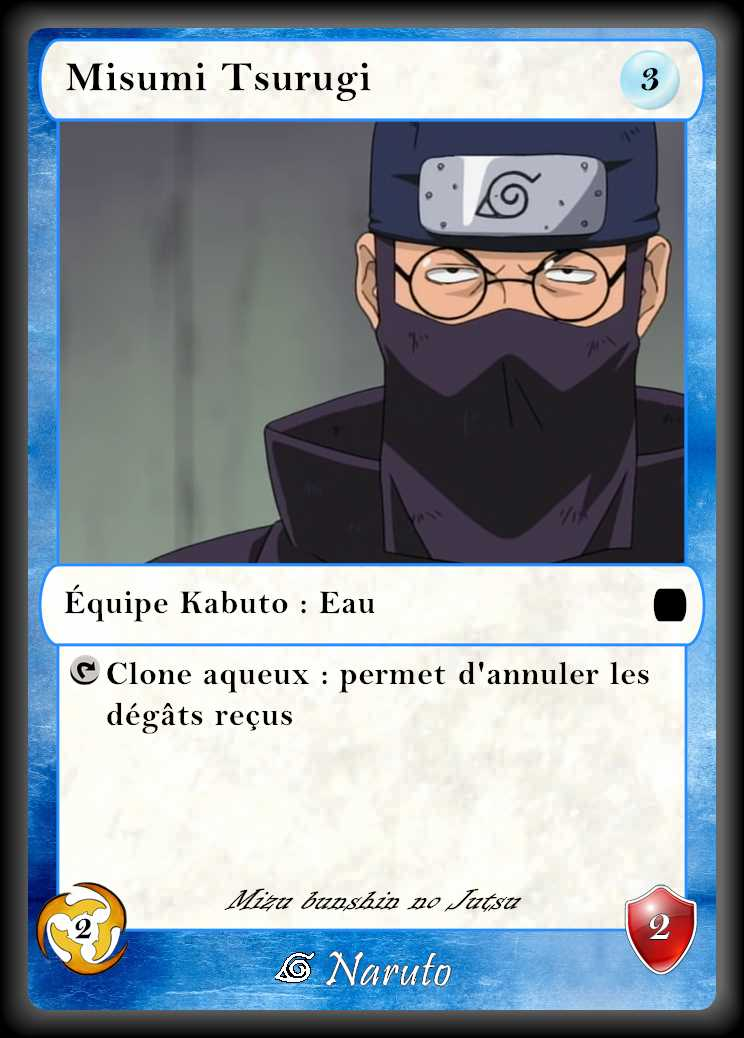
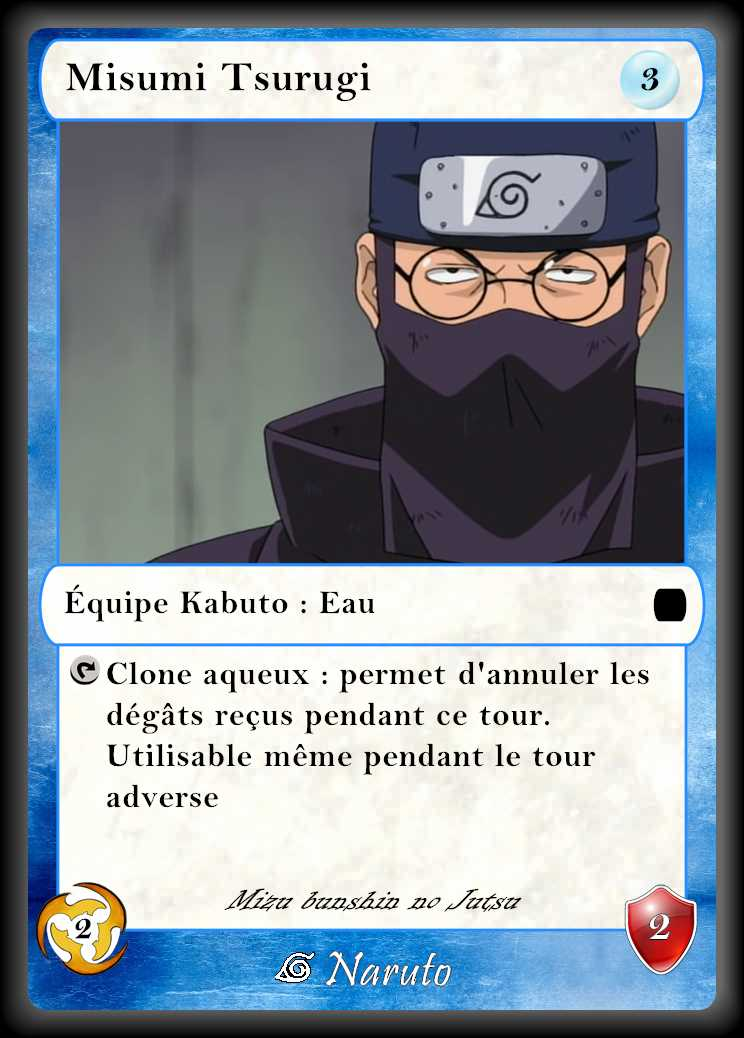
MAJ des cartes OK

Changed region(s): [[0.1237, 0.6782, 0.8038, 0.8015]]

diff --git a/src/main/resources/static/js/deckSection.js b/src/main/resources/static/js/deckSection.js
@@ -105,24 +105,27 @@ function fillDeck(playerId,section,stackName,gameImageHeight){
             var div = document.createElement("div-"+ cards[i].id);
 
                       //Manage dmg points
-            var xhttpDmg = new XMLHttpRequest();
-            xhttpDmg.open("GET", "player/"+playerId+"/board/"+cards[i].id+"/dmg", false);
-            xhttpDmg.setRequestHeader("Content-type", "application/json");
-            xhttpDmg.send();
 
             var buttonLessDmg = document.createElement("button");
             buttonLessDmg.innerHTML = "-";
-            buttonLessDmg.tag = parseInt(xhttpDmg.responseText)-1;
+            buttonLessDmg.tag = parseInt(cards[i].dammagePoints)-1;
             buttonLessDmg.setAttribute("id",cards[i].id);
             buttonLessDmg.setAttribute('onclick','updateDmgPoints(this.id,this.tag);');
             div.appendChild(buttonLessDmg);
 
-            var nbDmg = document.createTextNode("  " + xhttpDmg.responseText+"  ");
-            div.appendChild(nbDmg);
+            var bold = document.createElement("b");
+            var nbDmg = document.createTextNode("  " + cards[i].dammagePoints+"  ");
+            bold.style.fontSize = "medium";
+            if (cards[i].dammagePoints>0){
+                bold.style.color = 'red';
+            }
+
+            bold.appendChild(nbDmg);
+            div.appendChild(bold);
 
             var buttonMoreDmg = document.createElement("button");
             buttonMoreDmg.innerHTML = "+";
-            buttonMoreDmg.tag = parseInt(xhttpDmg.responseText)+1;
+            buttonMoreDmg.tag = parseInt(cards[i].dammagePoints)+1;
             buttonMoreDmg.setAttribute("id",cards[i].id);
             buttonMoreDmg.setAttribute('onclick','updateDmgPoints(this.id,this.tag);');
             div.appendChild(buttonMoreDmg);

diff --git a/src/main/resources/static/js/pv.js b/src/main/resources/static/js/pv.js
@@ -25,9 +25,27 @@ function fillPVs(playerId,componentId) {
         xhttpChakras.open("GET", "player/"+playerId+"/chakra", false);
         xhttpChakras.setRequestHeader("Content-type", "application/json");
         xhttpChakras.send();
-        var componentChakra = document.createTextNode("Chakras : " + xhttpChakras.responseText);
 
-        component.appendChild(componentChakra);
+
+
+        var xhttpMaxChakra = new XMLHttpRequest();
+        xhttpMaxChakra.open("GET", "maxchakra", false);
+        xhttpMaxChakra.setRequestHeader("Content-type", "application/json");
+        xhttpMaxChakra.send();
+        var maxChakra = xhttpMaxChakra.responseText
+
+
+        var component = document.getElementById(componentId);
+        var capsule = document.createElement("span");
+        var componentChakra = document.createTextNode("Chakras : " + xhttpChakras.responseText);
+        if (Number(xhttpChakras.responseText)> Number(maxChakra)) {
+            capsule.style.color="red";
+        }else{
+            capsule.style.color="black";
+        }
+        capsule.appendChild(componentChakra);
+
+        component.appendChild(capsule);
     }
 }
 

diff --git a/src/main/resources/static/js/chakra.js b/src/main/resources/static/js/chakra.js
@@ -4,8 +4,21 @@ function fillChakras(playerId,componentId) {
     xhttp.open("GET", "player/"+playerId+"/chakra", false);
     xhttp.setRequestHeader("Content-type", "application/json");
     xhttp.send();
+
+    var xhttpMaxChakra = new XMLHttpRequest();
+    xhttpMaxChakra.open("GET", "maxchakra", false);
+    xhttpMaxChakra.setRequestHeader("Content-type", "application/json");
+    xhttpMaxChakra.send();
+    var maxChakra = xhttpMaxChakra.responseText
+
+
     var component = document.getElementById(componentId);
-    component.textContent =  "Chakras : " + xhttp.responseText;
+    component.textContent = "Chakras : " + xhttp.responseText;
+    if (Number(xhttp.responseText)> Number(maxChakra)) {
+        component.style.color="red";
+    }else{
+        component.style.color="black";
+    }
     var linebreak = document.createElement("br");
     component.appendChild(linebreak);
 

diff --git a/src/main/resources/static/js/opponentDeckSection.js b/src/main/resources/static/js/opponentDeckSection.js
@@ -102,10 +102,15 @@ function fillDeckOpp(playerId,section,stackName,gameImageHeight){
 
             //Je crée un sous-bloc pour l'affichage des dégats
             var div = document.createElement("div");
+            var bold = document.createElement("b");
             var nbDmg = document.createTextNode("  " + cards[i].dammagePoints + "  ");
-
+            bold.appendChild(nbDmg);
+            bold.style.fontSize = "medium";
+            if (cards[i].dammagePoints>0){
+                bold.style.color = 'red';
+            }
             //Ajout bloc dmg au div
-            div.appendChild(nbDmg);
+            div.appendChild(bold);
             cardDiv.appendChild(div);
 
             src.appendChild(cardDiv);

diff --git a/src/main/java/cardmastergame/controller/GameController.java b/src/main/java/cardmastergame/controller/GameController.java
@@ -34,6 +34,21 @@ public class GameController extends AbstractController{
     }
 
     @CrossOrigin
+    @RequestMapping(path="/maxchakra",method = RequestMethod.GET)
+    @ResponseBody
+    @ApiOperation(value = "Get the max value of chakra")
+    @ApiResponses(value = {
+            @ApiResponse(code = 200, message = "Success", response = Integer.class),
+            @ApiResponse(code = 401, message = "401"),
+            @ApiResponse(code = 403, message = "403"),
+            @ApiResponse(code = 404, message = "404"),
+            @ApiResponse(code = 500, message = "500")})
+    public int getMaxChakra() {
+
+        return customRepo.getMaxChakra();
+    }
+
+    @CrossOrigin
     @RequestMapping(path="/stack/{value}",method = RequestMethod.GET)
     @ResponseBody
     @ApiOperation(value = "Get a given stack")

diff --git a/src/main/java/cardmastergame/bean/Game.java b/src/main/java/cardmastergame/bean/Game.java
@@ -153,9 +153,8 @@ public class Game {
     }
 
     public int updateChakras(int playerId, int value) {
-        if(value<= MAX_CHAKRA) {
-            chakras[playerId] = value;
-        }
+
+        chakras[playerId] = value;
         return  chakras[playerId];
     }
 
@@ -222,4 +221,7 @@ public class Game {
         return pieges;
     }
 
+    public int getMaxChakra() {
+        return MAX_CHAKRA;
+    }
 }

diff --git a/src/main/java/cardmastergame/repository/CollectionRepositoryImpl.java b/src/main/java/cardmastergame/repository/CollectionRepositoryImpl.java
@@ -149,5 +149,10 @@ public class CollectionRepositoryImpl implements CollectionRepositoryCustom {
         game.moveCardFromPiegeToGraveyardForPlayer(playerId,cardId);
     }
 
+    @Override
+    public int getMaxChakra() {
+        return game.getMaxChakra();
+    }
+
 
 }

diff --git a/src/main/java/cardmastergame/repository/CollectionRepositoryCustom.java b/src/main/java/cardmastergame/repository/CollectionRepositoryCustom.java
@@ -47,4 +47,6 @@ public interface CollectionRepositoryCustom {
     void moveCardFromHandToTrapForPlayer(int playerId, int cardId);
 
     void moveCardFromTrapToGraveyard(int playerId, int cardId);
+
+    int getMaxChakra();
 }

diff --git a/README.md b/README.md
@@ -1,25 +1,13 @@
-Pioche : 5 cartes
-bug uroko kurama : augmenter les pvs
-murakumo 
+
 Ajouter visuel nombres de catres adverse
-misumi : peut etre lancé pendant le tour adverse , plus explique
-Debrayer le max de chakra : div en rouge quand max atteint
-Damyio de la foudre : notion de tour
-POints de degat en gras, en rouge > 0
-fumigène : expliquer le camouflage
-sakumo hatake, mauvais icone
-Clarifier regle : si lancement sort, peut attaquer ?
-fumigene, simbole instantanné
-Dodai : PV, aux alliés
+
 Bug : cimetiere vers main -> doit refresh la main
-naruto adulte : Charge instantannée ? et pas infinie
-Kirara, "tant qu'elle est en jeu"
-piège givrant : allié
-geole de paille : les dégats sont comptabilisés et le controle est fait apres
-Aoba : quand il subit des dégats
 
 
-
-Passer a 40 pv
-
+Rêgles
+Pioche : 5 cartes
 expliciter le cas infini et instantanné, voir les 2 dans certains cas
+Regle : infini = à chaque tour mais apres un tour d'invocation
+Infini + instantanné : a chaque tour des celui ou il est posé
+Si un ninja lance un sort par activation, il peut également attaquer
+Quand un ninja donne un bonus à d'autres, lui-même n'en bénéficie pas
